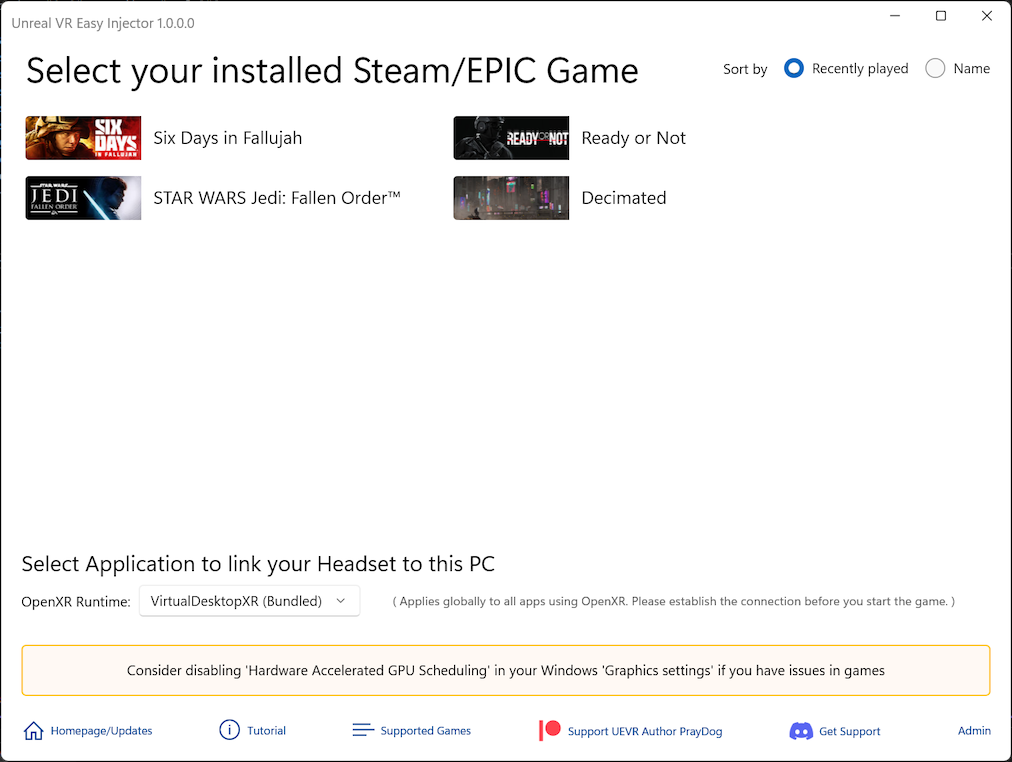
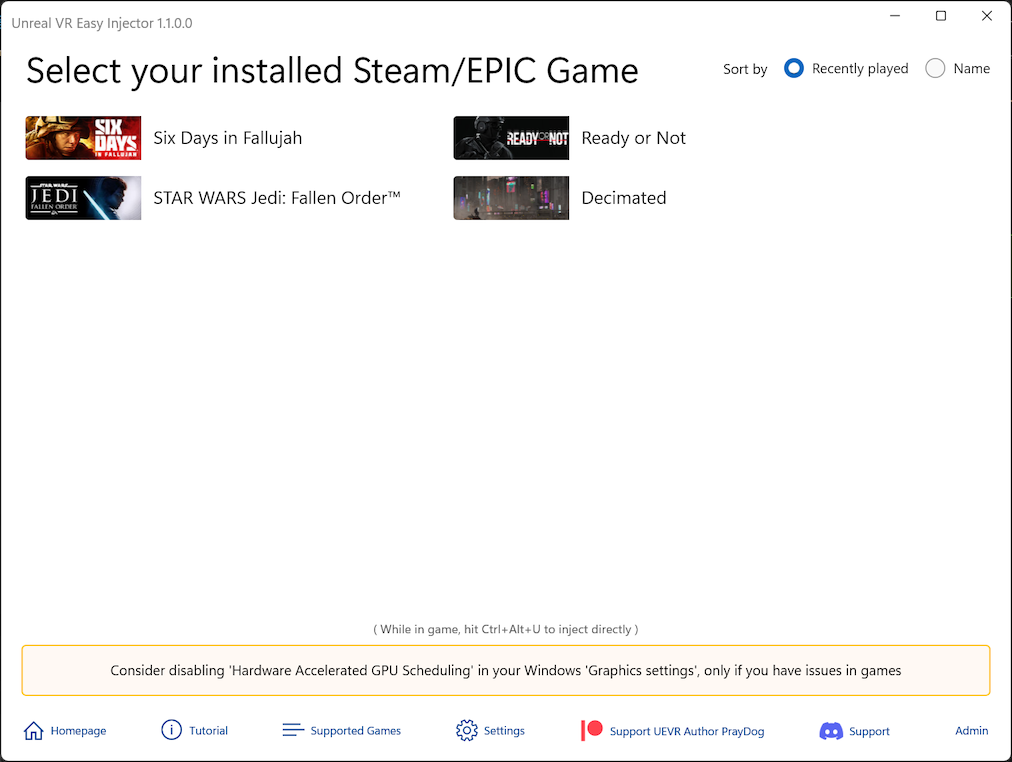
Update for V1.1

diff --git a/UEVRTutorial.md b/UEVRTutorial.md
@@ -31,7 +31,7 @@ While there are several smaller ones out there, the most widely used and user fr
 | [Meta Quest Link](https://www.meta.com/en-us/help/quest/pcvr/) | Free  | WIFI (Airlink) and USB | Good |
 
 If your network is great, I would highly recommend [Virtual Desktop](https://www.vrdesktop.net/).
-It has the best image encoding, resulting in best image quality if your PC can handle it.  
+It has the best image encoding, upscaling options and frame generion on headset, resulting in best image quality.  
 If your network is weak and you are a Meta Quest user, go for USB on [Meta Quest Link](https://www.meta.com/en-us/help/quest/pcvr/).  
 If you search for a free option that is also know to be very stable, go for [SteamVR](https://store.steampowered.com/app/250820/SteamVR/).  
 Except from Meta Quest Link the installation requires an app both on PC as well as on the headset.

diff --git a/index.md b/index.md
@@ -11,7 +11,7 @@ Takes you by the hand, filters installed games that might be running Unreal engi
 ![Main screenshot](assets/ScreenMain.png)
 
 ## Easy to find a profile and start the game
-Profiles of the new working UEVR profile database can contain documentation. No more searching on discord, no more outdated profile websites:  
+Profiles of the new working UEVR profile database can contain documentation. No more searching on discord, no more outdated profile websites. Inject via hotkey while running you game, without tabbing around with headset on:  
 
 ![Game screenshot](assets/ScreenGame.png)
 
